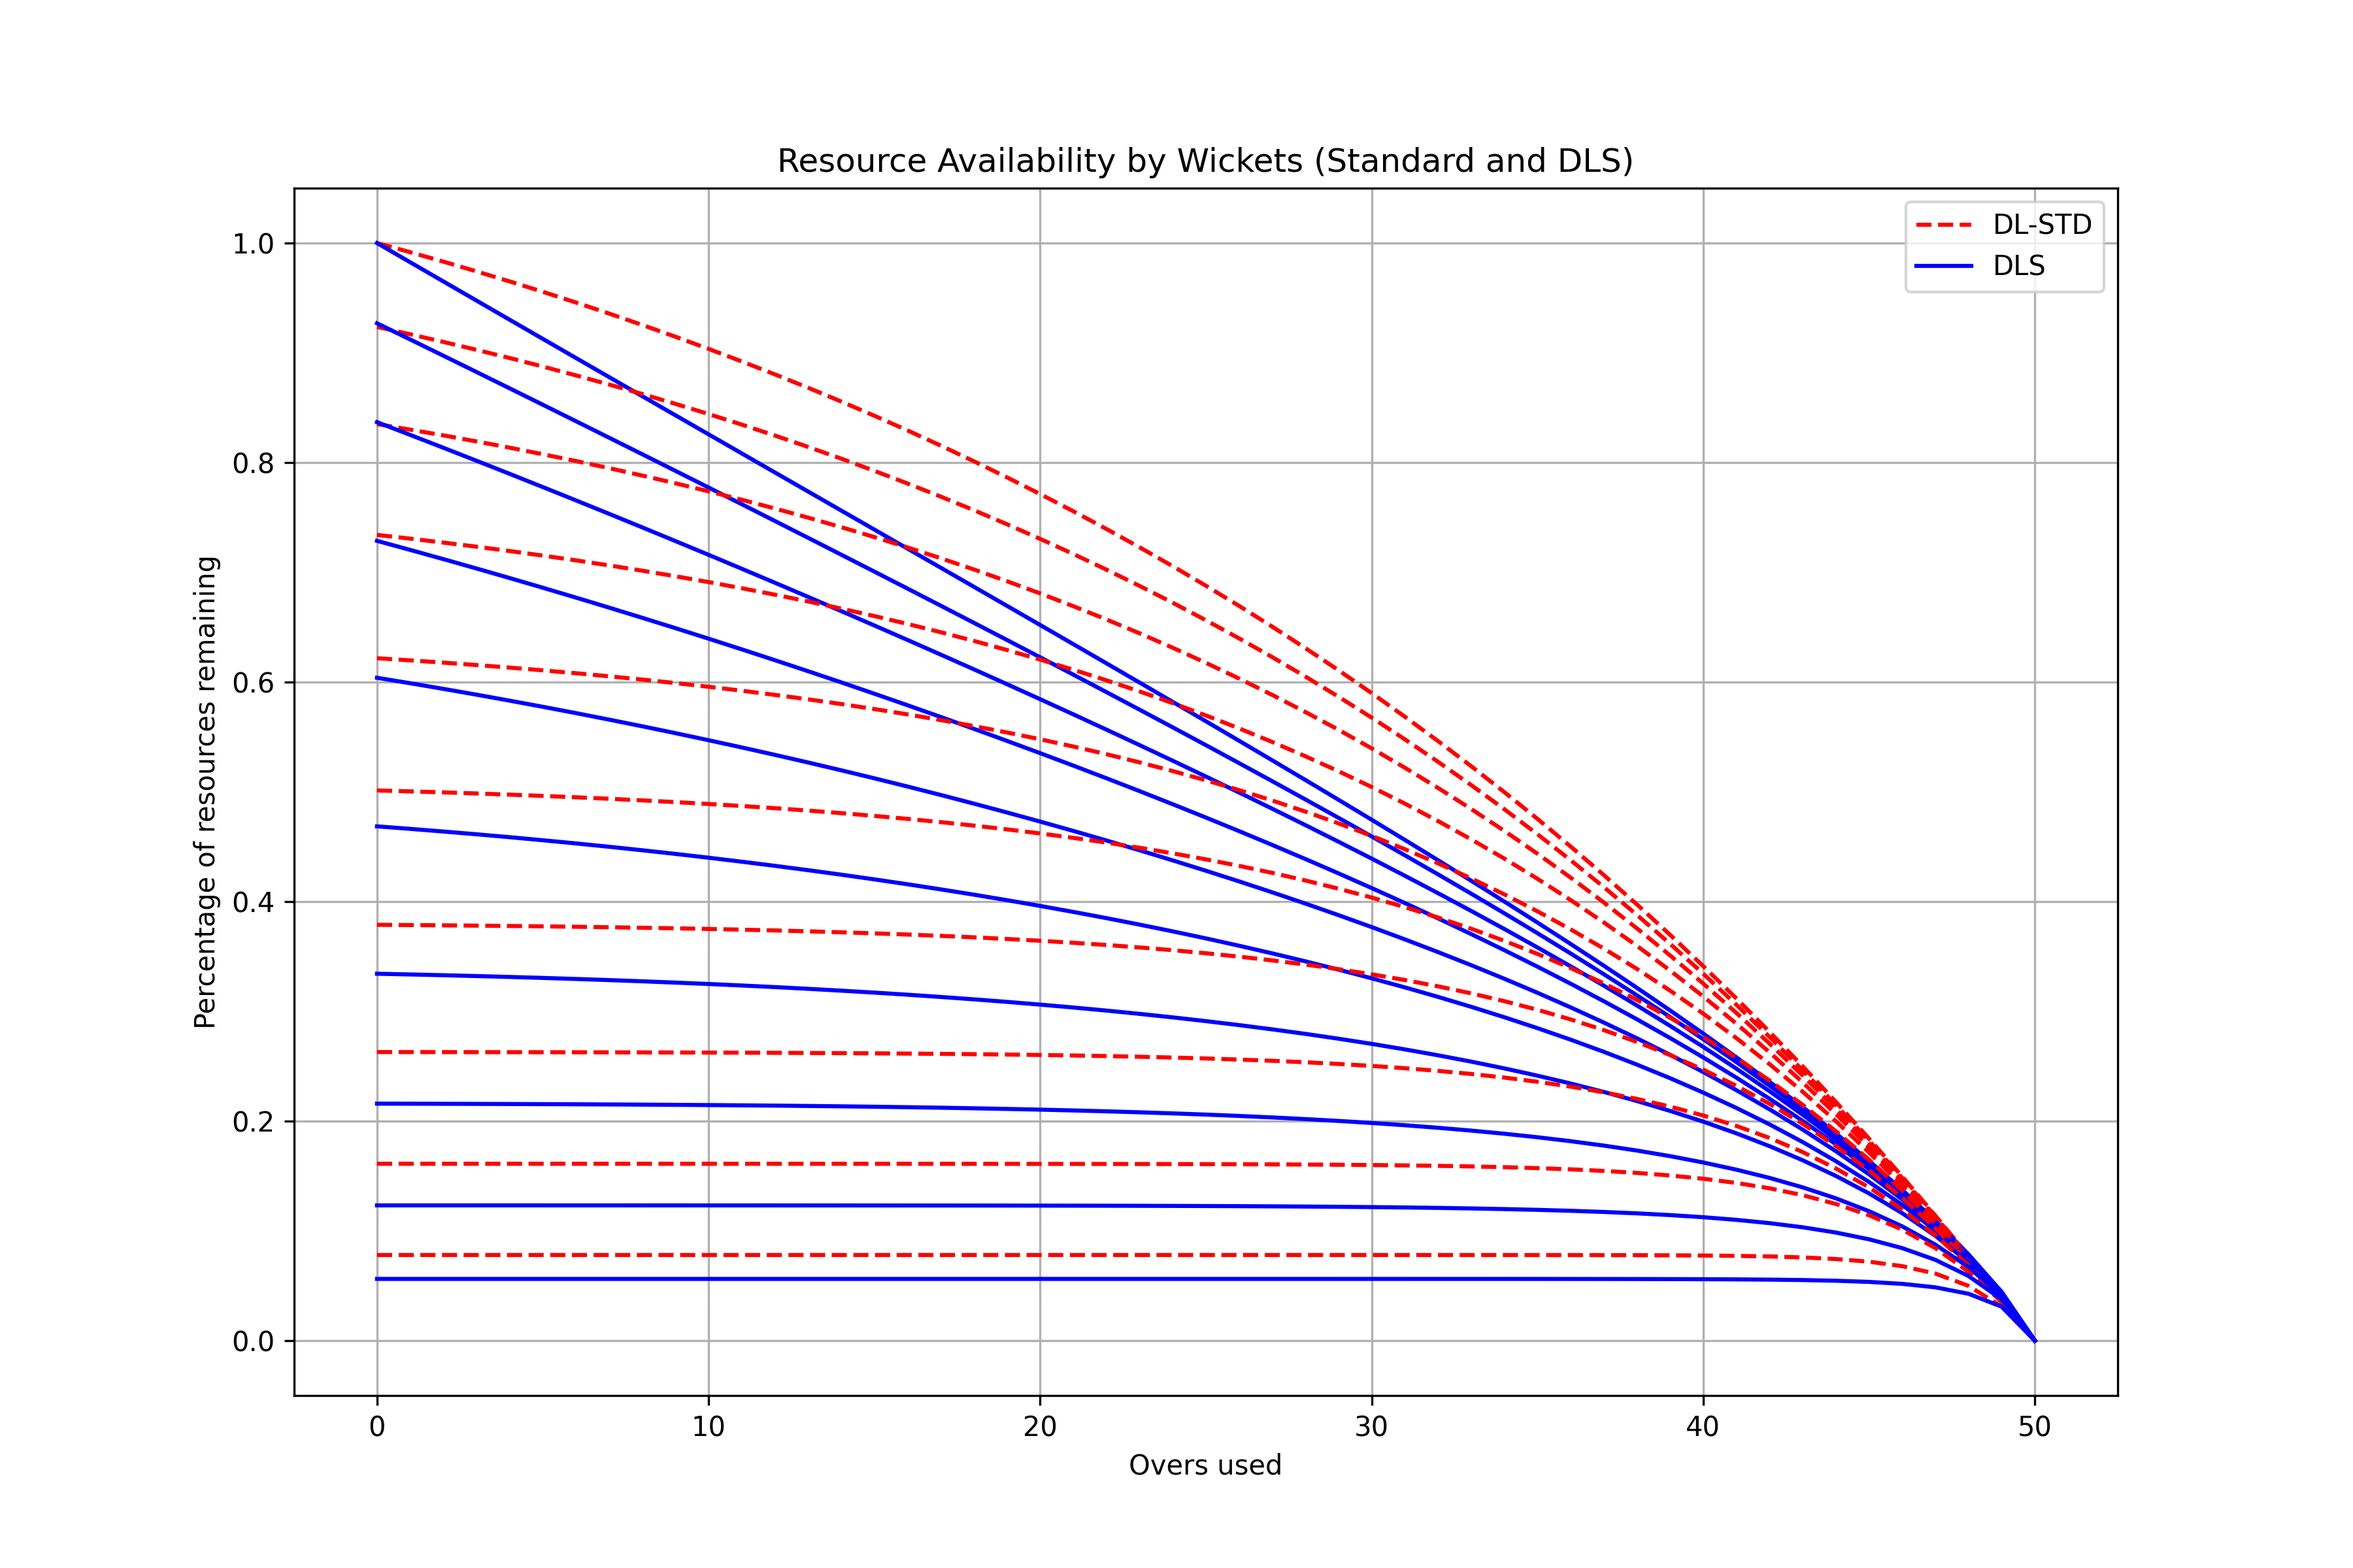
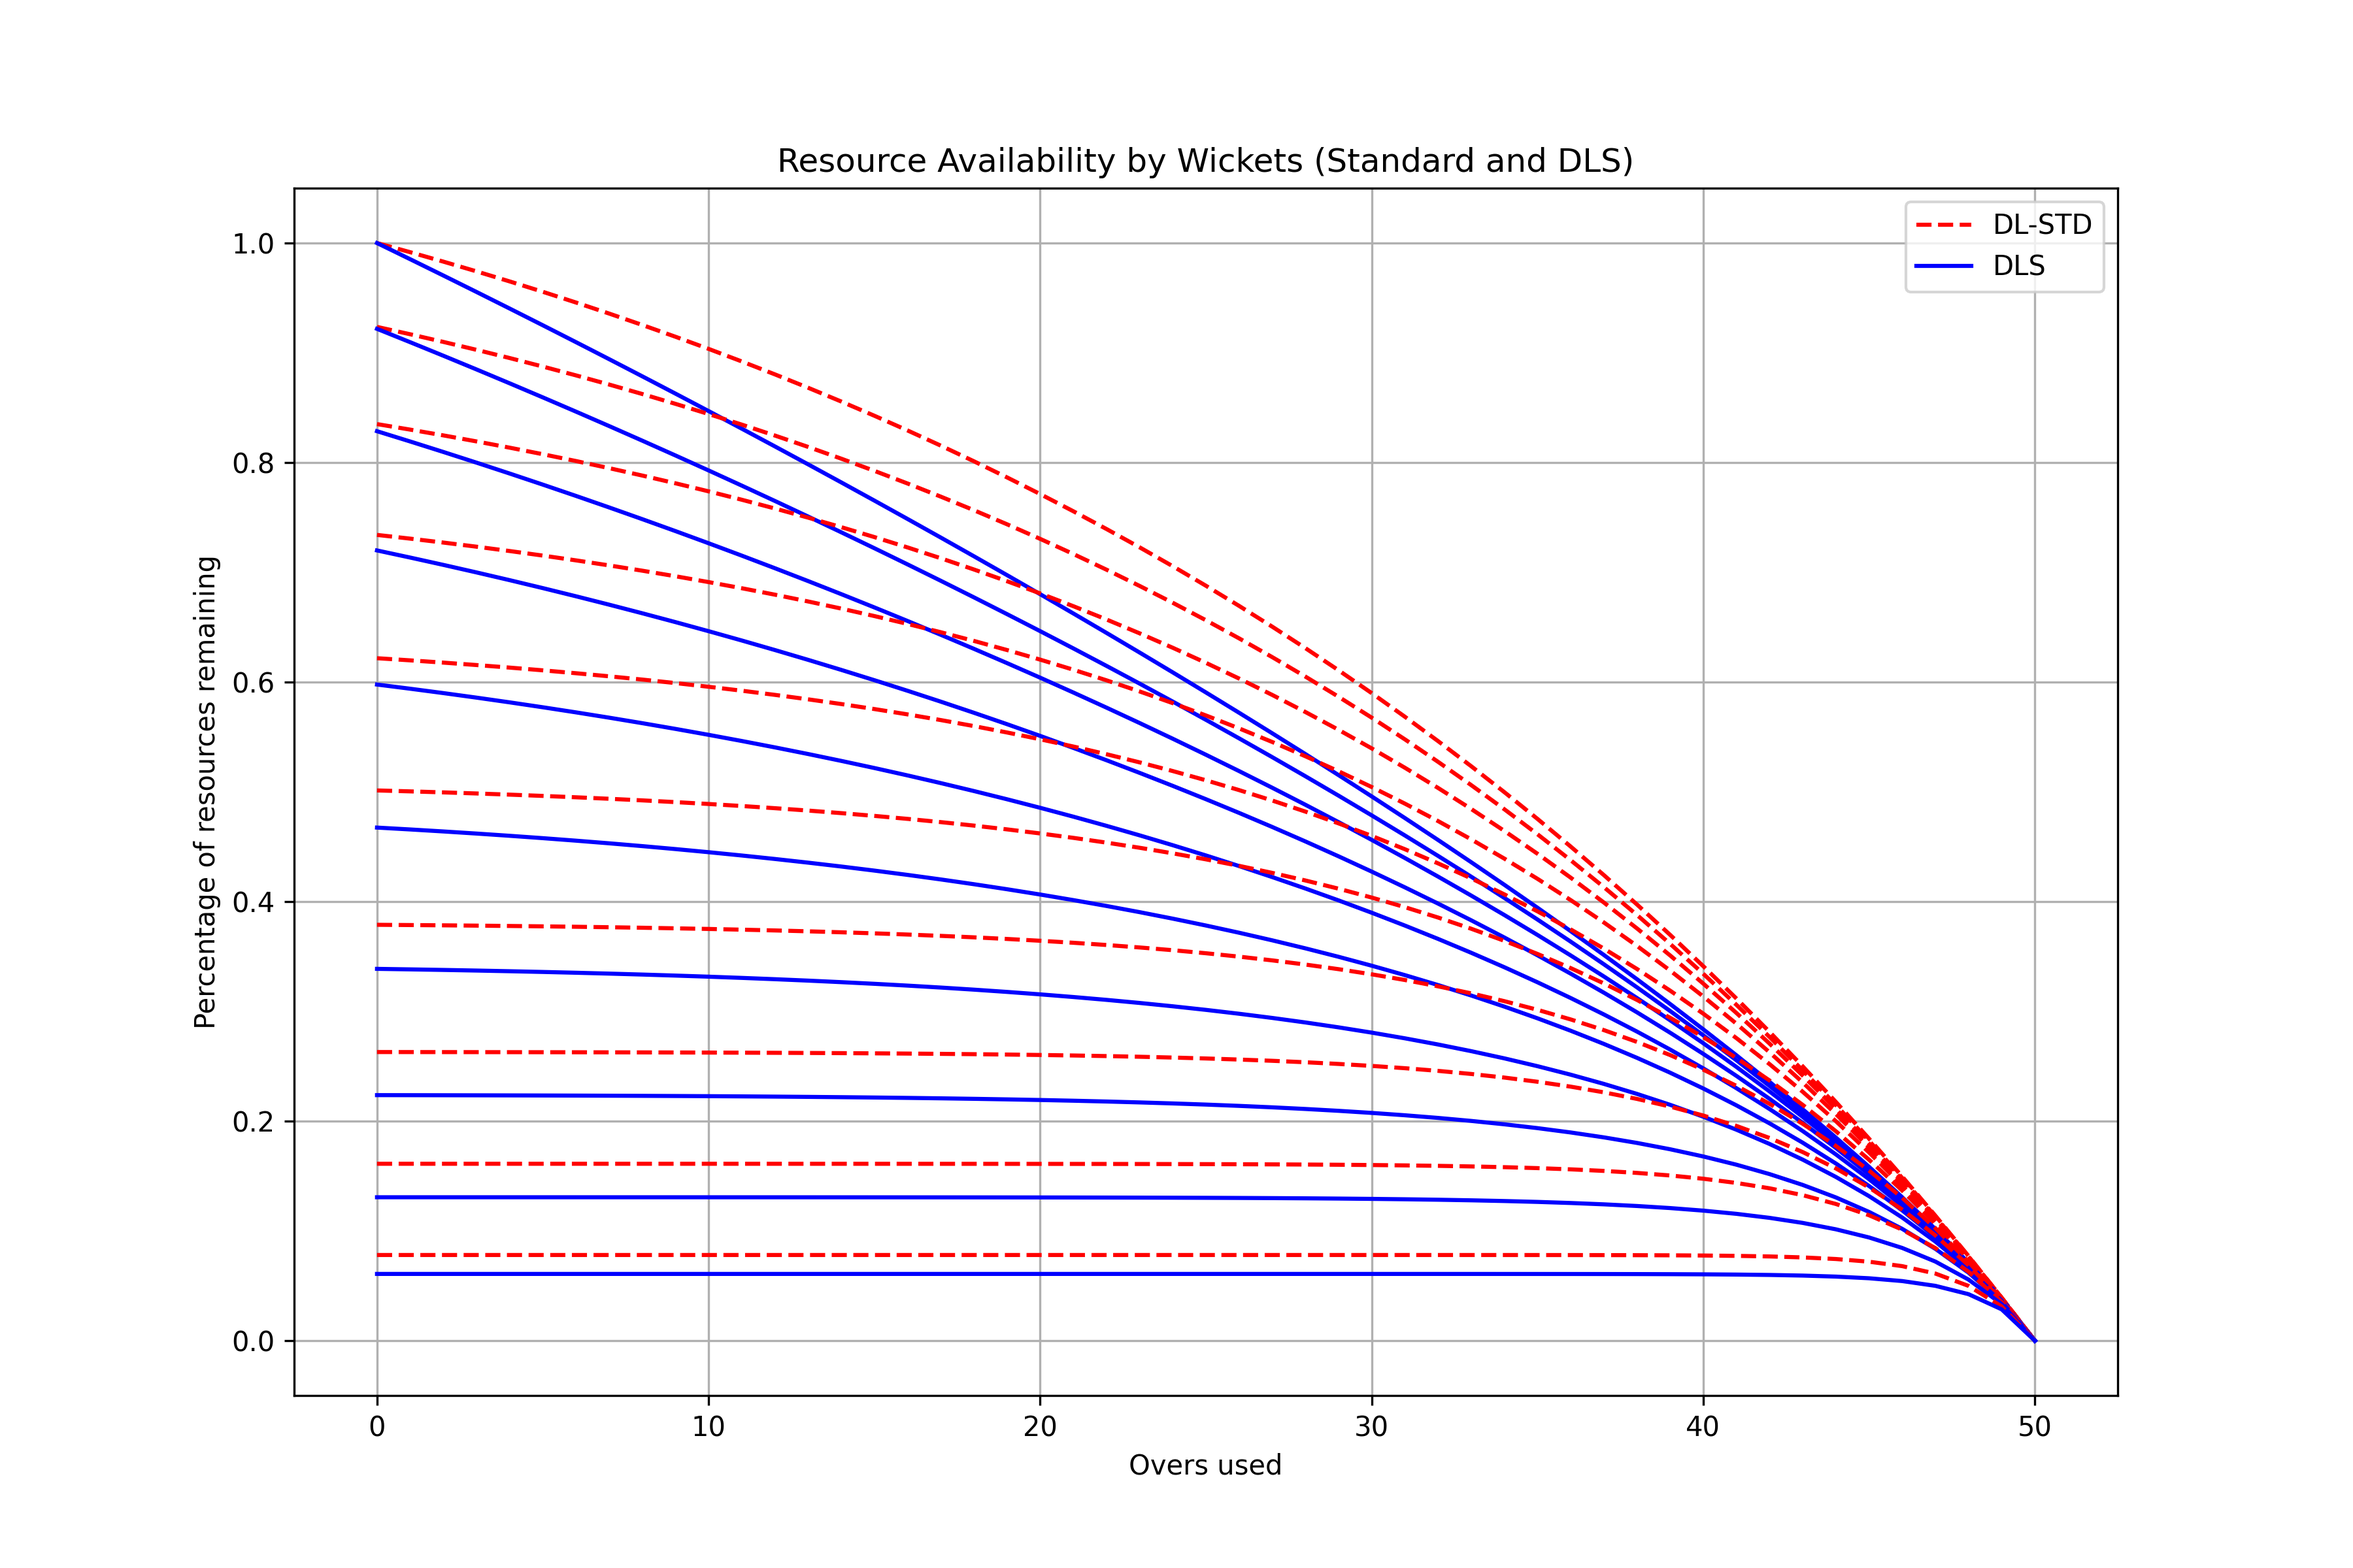
updated code

diff --git a/code/main_dls_300_balls.py b/code/main_dls_300_balls.py
@@ -30,48 +30,6 @@ def preprocess_data(data, params):
     return data
 
 
-# def Z_std_u_w(params, u, w):
-#     G_50, b, a1, a2, a3 = params
-
-#     Z_0 = G_50/(1 - np.exp(-50*b))
-#     F_w = 1 + a1*w + a2 * (w**2) + a3 * (w**3)
-
-#     Z_std = Z_0 * F_w * (1 - np.exp((-u*b)/F_w))
-
-#     return Z_std 
-
-
-# def Z_pro_u_w(params, u, w, lmda):
-#     G_50, b, a1, a2, a3 = params
-
-#     n0 = 5
-
-#     Z_0 = G_50/(1 - np.exp(-50*b))
-#     F_w = 1 + a1*w + a2 * (w**2) + a3 * (w**3)
-
-#     n_w = n0 * F_w
-
-#     return Z_0 * F_w * (lmda**(n_w+1)) * (1 - np.exp((-u*b)/(F_w * (lmda**n_w)))) 
-
-# def Z_dls(params, args, u, w, lmbda):
-#     c1, c2, c3, c4 = params
-#     G_50, b, a1, a2, a3 = args
-    
-#     Z_0 = G_50/(1-np.exp(-50*b))
-#     F_w = 1 + a1*w + a2*(w**2) + a3*(w**3)
-#     n_w = 5 * F_w
-
-#     alpha = -1 / (1+c1*(lmbda-1)*np.exp(-c2*(lmbda-1)))
-#     beta = -c3*(lmbda-1)*np.exp(-c4*(lmbda-1))
-#     g_u_lmbda = np.power(u/50, -(1+alpha+beta*u))
-#     # print("In Z_dls")
-#     # print(lmbda.shape)
-#     # print(f"In Z_Dls {params=}, {args=}, {Z_0=}, {u=}, {w=}, {lmbda=},{g_u_lmbda=}, {n_w=}, {(-u*b*g_u_lmbda)/(F_w * (lmbda**n_w))}")
-#     # print("pred", Z_0 * F_w * (lmbda**(n_w+1)) * (1-np.exp((-u*b*g_u_lmbda)/F_w * (lmbda**n_w))))
-
-#     return Z_0 * F_w * (lmbda**(n_w+1)) * (1-np.exp((-u*b*g_u_lmbda)/(F_w * (lmbda**n_w))))
-
-
 def calculate_loss1(params, args, data):
     total_loss = 0
     count = 0
@@ -96,50 +54,6 @@ def calculate_loss1(params, args, data):
                 total_loss += np.mean(loss)
         
     return total_loss/count
-
-            # if temp_data.shape[0] > 0:
-            #     for index, row in temp_data.iterrows():
-        
-            #         overs_remaining = row['Overs.Remaining']
-            #         wickets_down = row['Wickets.Down']
-            #         runs_remaining = row['Runs.Remaining']
-
-            #         runs = row['Innings.Total.Runs'] if row['Innings'] == 1 else row['Target.Score'] - 1
-
-            #         lmbda = calculate_lambda(args, runs)
-            #         # print(lmbda)
-
-            #         # Calculate the loss for each row using Z_dls function
-            #         predicted_value = Z_dls(params, args, overs_remaining, wickets_down, lmbda)
-            #         loss += (runs_remaining - predicted_value) ** 2
-            #         count += 1
-
-    #return loss / count 
-
-
-
-
-# def equation(x, params, team1_score):
-
-#     G_50, b, a1, a2, a3 = params
-
-#     u, w, n0 = 50, 0, 5
-
-#     Z_0 = G_50/(1 - np.exp(-50*b))
-#     F_w = 1 + a1*w + a2 * (w**2) + a3 * (w**3)
-
-#     n_w = n0 * F_w
-
-#     return Z_0 * F_w * (x**(n_w+1)) * (1 - np.exp((-u*b)/(F_w * (x**n_w)))) - team1_score
-
-
-# def calculate_lambda(params, team1_score):
-
-#     solution = root_scalar(lambda x: equation(x, params, team1_score), bracket=[1,100])
-
-#     return solution.root
-
-    
 
 
 if __name__ == '__main__':

diff --git a/code/helper.py b/code/helper.py
@@ -3,16 +3,7 @@ import pandas as pd
 import numpy as np
 from scipy.optimize import minimize, root_scalar
 
-
-def Z_std_u_w(params, u, w):
-    G_50, b, a1, a2, a3 = params
-
-    Z_0 = G_50/(1 - np.exp(-50*b))
-    F_w = 1 + a1*w + a2 * (w**2) + a3 * (w**3)
-
-    Z_std = Z_0 * F_w * (1 - np.exp((-u*b)/F_w))
-
-    return Z_std 
+from main import Z_std_u_w, Z_dls, calculate_lambda
 
 
 def calculate_loss(params, df):
@@ -33,19 +24,58 @@ def calculate_loss(params, df):
 
     return loss 
 
+def make_file(Z_std_params, Z_dls_params):
+
+    dl = [[] for i in range(10)]
+    dls = [[] for i in range(10)]
+
+    lambda_val = calculate_lambda(Z_std_params, 330)
+
+    for overs_left in range(50,-1,-1):
+        
+        for wicket_lost in range(10):
+
+            dl_val = (Z_std_u_w(Z_std_params, overs_left, wicket_lost) / Z_std_u_w(Z_std_params, 50, 0)) * 100
+            #print(type(dl_val))
+
+            dls_val = Z_dls(Z_dls_params,Z_std_params, overs_left, wicket_lost, lambda_val)/Z_dls(Z_dls_params,Z_std_params, 50, 0, lambda_val) * 100
+
+            dl[wicket_lost].append(float(dl_val))
+            dls[wicket_lost].append(float(dls_val))
+
+    columns = ["Overs left"] + [f"Wicket lost = {i}" for i in range(1, 11)]
+
+
+
+    df_dl = pd.DataFrame(dl)
+    df_dls = pd.DataFrame(dls)
+
+    df_dl = df_dl.T
+    df_dls = df_dls.T
+
+    df_dl.insert(0,'Overs_left',[50 - i for i in range(51)])
+    df_dls.insert(0,'Overs_left', [50 - i for i in range(51)])
+    
+    df_dl.to_csv('dl_resource.csv', index=False, header=columns)
+    df_dls.to_csv('dls_resource.csv', index=False, header=columns)
+
+    
 
 if __name__ == '__main__':
 
-    df = pd.read_csv('resource_data.txt', header=None, sep=' ')
+    # df = pd.read_csv('resource_data.txt', header=None, sep=' ')
 
-    initial_guess = [ 20.5 , 1.253e-02, -1.391e-01 , 5.942e-03 ,-2.945e-05]
+    # initial_guess = [ 20.5 , 1.253e-02, -1.391e-01 , 5.942e-03 ,-2.945e-05]
 
-    result = minimize(calculate_loss, initial_guess, args = df, method='nelder-mead')
+    # result = minimize(calculate_loss, initial_guess, args = df, method='nelder-mead')
 
-    # bounds = [(1e2, 1e3), (1e-5, 1e2), (-1e1, 1e1), (-1e1, 1e1), (-1e1, 1e1)]
-    # result = minimize(calculate_loss, initial_guess, args=(df,), method='L-BFGS-B', bounds=bounds)
+    # print(f"{result = }")  
 
-    print(f"{result = }")     
+    Z_std_params = 2.045e+02, 3.159e-02, -1.196e-01, -1.748e-03,  3.840e-04
+    Z_dls_params = 3.124e-01, -5.117e+00, 4.113e-02 , 5.560e-02
+
+
+    make_file(Z_std_params, Z_dls_params)   
 
 
     #calculate_loss(initial_guess, df)

diff --git a/code/main_plot.py b/code/main_plot.py
@@ -1,7 +1,7 @@
 import pandas as pd
 import matplotlib.pyplot as plt
 
-from main import calculate_lambda, Z_dls, Z_std_u_w, load_data
+from main import calculate_lambda, Z_dls, Z_std_u_w,Z_pro_u_w, load_data
 
 
 
@@ -23,6 +23,7 @@ def plot_observed_vs_predicted(data, Z_std_params, Z_dls_params):
     y_val_dls_observed = []
     y_val_dl = []
     y_val_dls = []
+    # y_val_pro = []
     y_val_runrate = []
     
 
@@ -33,7 +34,7 @@ def plot_observed_vs_predicted(data, Z_std_params, Z_dls_params):
         x_val.append(ball)
 
         temp_df = df[(df['balls_remaining'] == ball ) & (df['wickets_down'] == 0)]
-        temp_df_300_plus = df_300_plus[(df_300_plus['balls_remaining'] == ball ) & (df_300_plus['wickets_down'] == 0)]
+        temp_df_300_plus = df_300_plus[(df_300_plus['balls_remaining'] == ball) & (df_300_plus['wickets_down'] == 0)]
 
         df_runs_to_come = temp_df['runs_remaining']/temp_df['total_runs']
         df_300_plus_runs_to_come = temp_df_300_plus['runs_remaining']/temp_df_300_plus['total_runs']
@@ -45,7 +46,7 @@ def plot_observed_vs_predicted(data, Z_std_params, Z_dls_params):
 
         y_val_dl.append(Z_std_u_w(Z_std_params, ball/6, 0)/Z_std_u_w(Z_std_params, 50, 0))
         y_val_dls.append(Z_dls(Z_dls_params,Z_std_params, ball/6, 0, lambda_val)/Z_dls(Z_dls_params, Z_std_params, 50, 0, lambda_val))
-
+        #y_val_pro.append(Z_pro_u_w(Z_std_params, ball/6, 0, lambda_val)/Z_pro_u_w(Z_std_params, 50, 0, lambda_val))
     
     plt.figure(figsize=(10, 6))
     plt.plot(x_val, y_val_dl_observed, color = 'red', linestyle='-', markersize = 2, marker = 's', linewidth=0.5,label='All ODI Matches [Avg 218]')
@@ -54,6 +55,10 @@ def plot_observed_vs_predicted(data, Z_std_params, Z_dls_params):
     plt.plot(x_val, y_val_dl, color = 'red', label = 'Base DL(for score of 218)')
     plt.plot(x_val, y_val_dls, color = 'blue', label = 'DLS (for score of 330)')
     plt.plot(x_val, y_val_runrate, color = 'black', linestyle='--', label = 'Average Run Rate Line')
+    # plt.plot(x_val, y_val_pro, color = 'green', label = 'DL Pro(for score of 330)')
+
+    plt.xlabel('Balls Remaining')
+    plt.ylabel('Proportion of Runs To Come')
     plt.legend()
     plt.savefig('observed_vs_predicted.png',dpi=300)
 
@@ -63,7 +68,7 @@ def plot_resource_remaining(Z_std_params, Z_dls_params):
     z_std_resource_avail = [[] for _ in range(10)]
     z_dls_val_resource_avail = [[] for _ in range(10)]
 
-    lambda_val = calculate_lambda(Z_std_params, 350)
+    lambda_val = calculate_lambda(Z_std_params, 300)
     x_val = list(range(51))  
 
     for overs_used in range(51):

diff --git a/code/inference.py b/code/inference.py
@@ -61,16 +61,15 @@ if __name__ == '__main__':
     # Z_std_params = [ 2.468e+02 , 1.253e-02, -1.391e-01 , 5.942e-03 ,-2.945e-05]
 
     Z_dls_params = 3.216e-01 , -4.633e+00,  3.518e-02 , -2.623e-01
-
     Z_std_params = 1.995e+02 , 3.159e-02 , -1.196e-01,  -1.748e-03 , 3.840e-04
-    #Z_std_params = 2.045e+02, 3.159e-02, -1.196e-01, -1.748e-03,  3.840e-04
+    
 
     # ODI Scenario
     print("\nODI Scenario: ")
-    team1_score = 309
+    team1_score = 350
     team2_wicktes_down = 2
-    team2_overs_completed = 20.4
-    lost_overs_due_to_rain = 50-20.4
+    team2_overs_completed = 10
+    lost_overs_due_to_rain = 5
 
     print("\nDL-STD: ",inference_ODI(Z_dls_params, Z_std_params, team1_score, team2_wicktes_down, team2_overs_completed, lost_overs_due_to_rain, method='DL-STD'))
     print("\nDL-PRO: ",inference_ODI(Z_dls_params, Z_std_params, team1_score, team2_wicktes_down, team2_overs_completed, lost_overs_due_to_rain, method='DL-PRO'))

diff --git a/code/main_300_balls.py b/code/main_300_balls.py
@@ -56,13 +56,6 @@ def calculate_loss(params, data):
 
     return total_loss / count
 
-# def calc_loss_fast(params, cleaned_data):
-#     pred = Z_std_u_w(params, cleaned_data['balls_remaining'].values, \
-#           cleaned_data['wickets_down'].values)
-#     loss = np.sum((pred - cleaned_data["runs_remaining"])**2)/cleaned_data.shape[0]
-#     return loss
-
-
 def calc_loss_fast(params, cleaned_data):
     pred = Z_std_u_w(params, cleaned_data['balls_remaining'].values, cleaned_data['wickets_down'].values)
     loss = np.sum((pred - cleaned_data["runs_remaining"])**2)/cleaned_data.shape[0]
